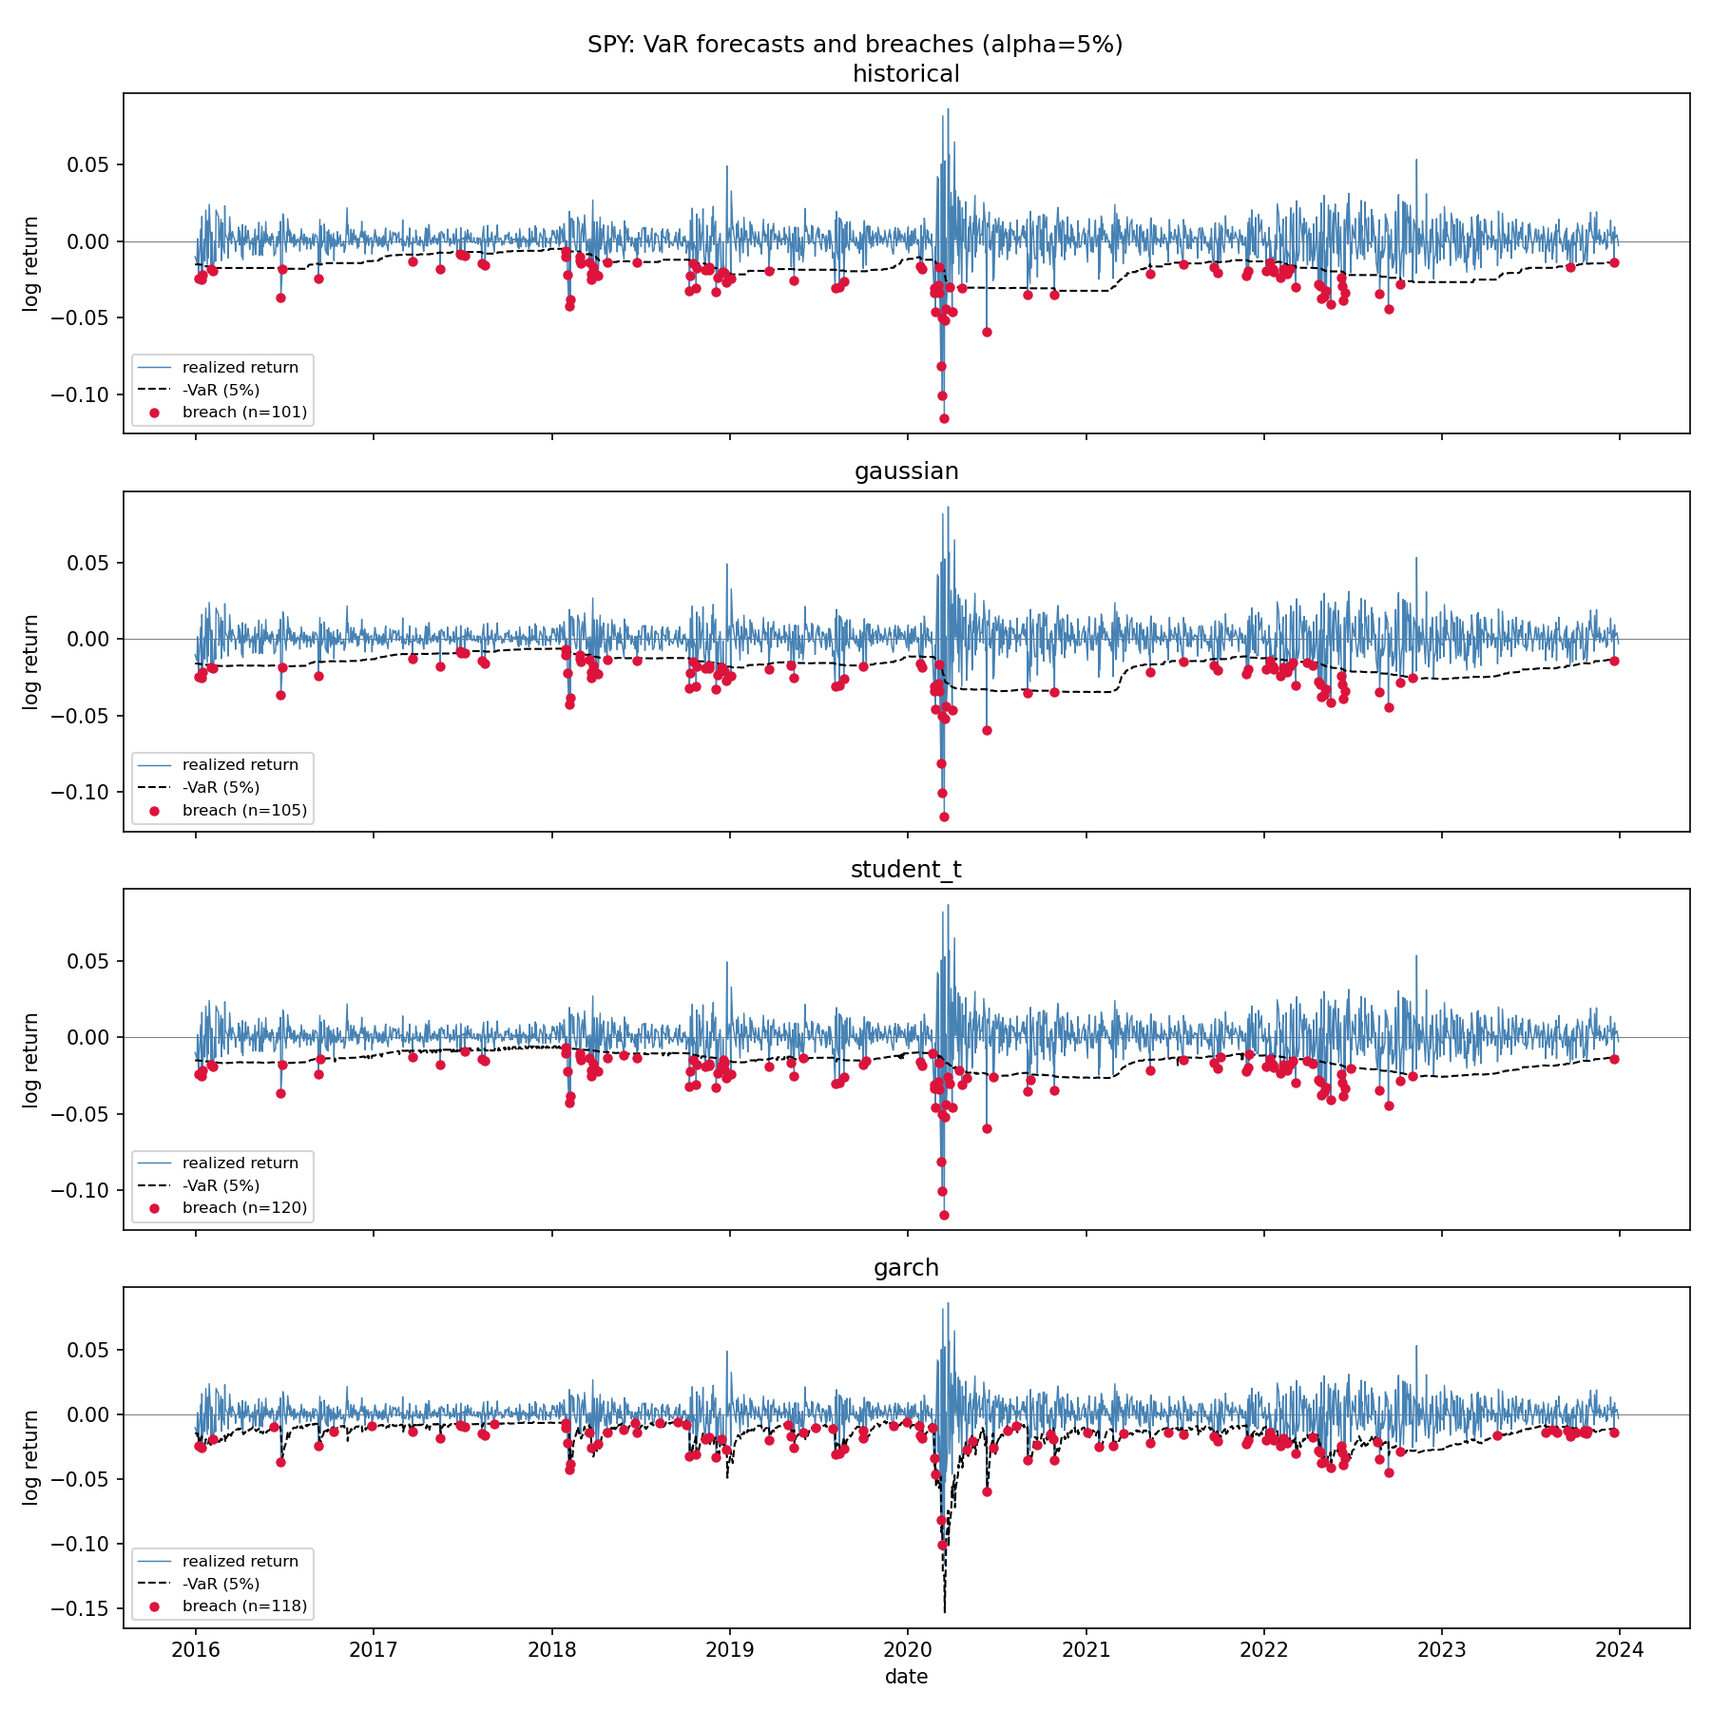
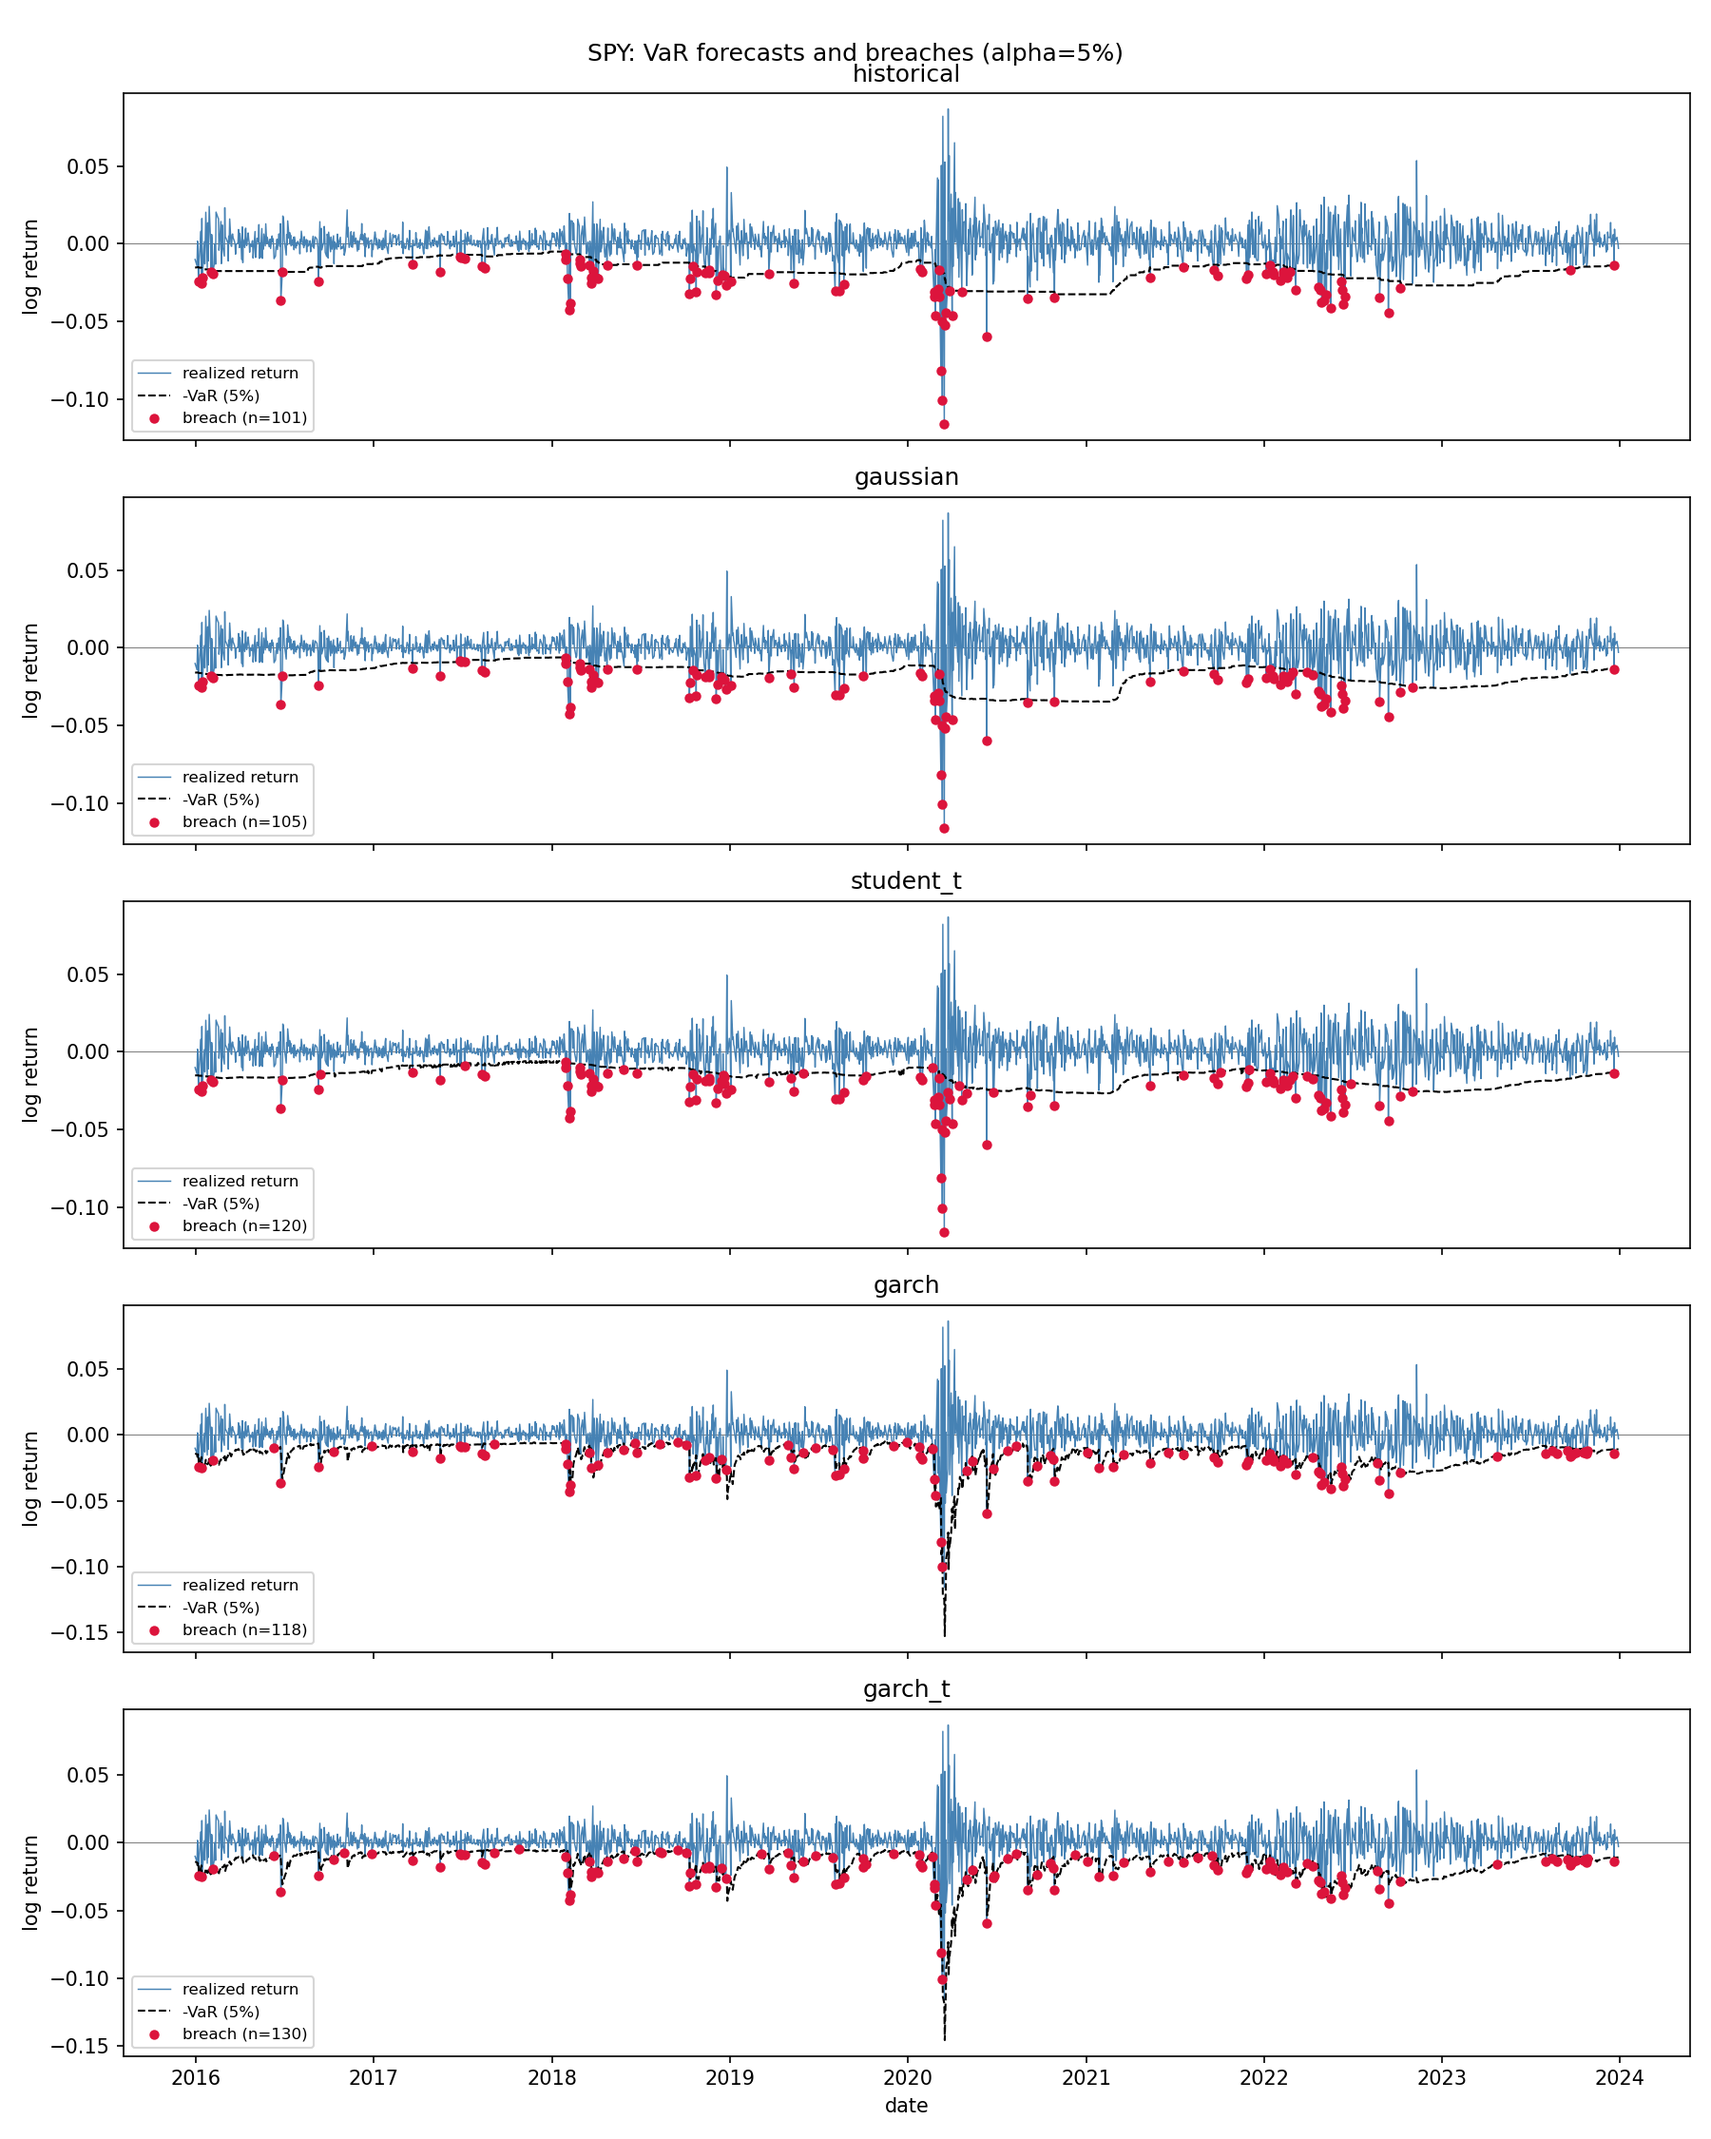
feat: add GARCH-Student-t model, fix ES overflow at large fitted nu
garch_t (GARCH(1,1) with Student-t innovations) fixes the independence
and severity failures of student_t and garch(normal) respectively, but
trades them for a coverage failure: its fitted conditional-volatility
path runs tighter than garch's on most days, which outweighs the
tail-widening effect of the fatter quantile and pushes the breach rate
above target.

Also fixes a latent bug this surfaced: arch's built-in Student-t
partial-moment (used for ES) overflows to NaN via raw gamma() once the
fitted degrees-of-freedom is large enough (~nu > 340) that the fit is
near-Gaussian. garch_var_es now reproduces the same closed form in
log-space so it stays finite for any fitted nu.

diff --git a/src/models.py b/src/models.py
@@ -35,6 +35,7 @@ from __future__ import annotations
 
 import numpy as np
 from scipy import stats
+from scipy.special import gammaln
 from arch import arch_model
 
 def historical_var_es(window: np.ndarray, alpha: float) -> tuple[float, float]:
@@ -150,17 +151,6 @@ def garch_var_es(
     volatility and combines it with a chosen innovation distribution to
     get VaR/ES.
 
-    Formula sketch:
-        1. Fit `arch.arch_model(window, vol="Garch", p=1, q=1, dist=dist)`
-        2. Forecast 1-step-ahead conditional mean (mu_t+1) and conditional
-           volatility (sigma_t+1) from the fitted model
-        3. Combine with the `dist` innovation quantile/tail-expectation
-           the same way `gaussian_var_es` / `student_t_var_es` do, but
-           using (mu_t+1, sigma_t+1) instead of the unconditional sample
-           mean/std:
-               VaR = -(mu_t+1 + sigma_t+1 * q_dist(alpha))
-               ES  = -(mu_t+1 - sigma_t+1 * es_factor_dist(alpha))
-
     Args:
         window: 1-D array of past log returns, most recent last.
         alpha: tail probability, e.g. 0.05.
@@ -210,13 +200,31 @@ def garch_var_es(
 
         var = -(mu_next + sigma_next * z)
 
-        partial_mean = float(
-            distribution.partial_moment(
-                1,
-                z,
-                shape_params,
-            )
+        nu = float(shape_params[0])
+
+        # `distribution.partial_moment` standardizes to unit variance
+        # (scale = sqrt((nu-2)/nu)), converts z to the raw t_nu domain,
+        # applies the Winkler et al. (1972) closed form via the raw
+        # (non-log) gamma function, then rescales back. That raw gamma
+        # ratio overflows to inf/nan once nu is large enough (roughly
+        # nu > 340) that the fitted Student-t is numerically
+        # indistinguishable from Gaussian — which happens in practice on
+        # low-kurtosis windows. Reproduce the same transform, but with
+        # the gamma ratio computed in log-space so it stays finite for
+        # any fitted nu.
+        scale = np.sqrt((nu - 2) / nu)
+        z_raw = z / scale
+
+        log_c = (
+            gammaln(0.5 * (nu + 1))
+            - gammaln(0.5 * nu)
+            - 0.5 * np.log(nu * np.pi)
         )
+        e = 0.5 * (nu + 1)
+        raw_moment = (0.5 * (np.exp(log_c) * nu) / (1 - e)) * (
+            (1 + (z_raw**2) / nu) ** (1 - e)
+        )
+        partial_mean = scale * raw_moment
 
         conditional_tail_mean = partial_mean / alpha
 

diff --git a/run.py b/run.py
@@ -46,6 +46,7 @@ MODELS: dict[str, ModelFn] = {
     "gaussian": gaussian_var_es,
     "student_t": student_t_var_es,
     "garch": garch_var_es,
+    "garch_t": lambda window, alpha: garch_var_es(window, alpha, dist="t"),
 }
 
 REPORTS_DIR = Path(__file__).resolve().parent / "reports"

diff --git a/README.md b/README.md
@@ -17,7 +17,7 @@ whether to believe it? Three things have to be true:
    be an accurate estimate of how bad the loss actually is. A model can get
    the rate and timing right and still badly underestimate tail severity.
 
-This project forecasts one-day VaR/ES with four models of increasing
+This project forecasts one-day VaR/ES with five models of increasing
 sophistication, then formally tests all three properties against realized
 returns.
 
@@ -26,7 +26,8 @@ returns.
 - **Data**: daily adjusted-close prices → 1-day log returns for a single
   ticker, walk-forward (rolling window, no lookahead).
 - **Models**: historical simulation, Gaussian (parametric normal), Student-t
-  (fat-tailed parametric), GARCH(1,1) (conditional volatility).
+  (fat-tailed parametric), GARCH(1,1) (conditional volatility) — tested with
+  both Gaussian and Student-t innovations (`garch`, `garch_t`).
 - **Backtests**:
   - Kupiec (1995) proportion-of-failures (POF) test — is the breach rate
     correct?
@@ -47,49 +48,57 @@ returns.
 | gaussian | 100.7 | 105 | 0.6586 | 0.0000 | 0.0000 | FAIL independence, severity |
 | student_t | 100.7 | 120 | 0.0545 | 0.0000 | 0.8027 | FAIL independence |
 | garch | 100.7 | 118 | 0.0838 | 0.4197 | 0.0000 | FAIL severity |
+| garch_t | 100.7 | 130 | 0.0040 | 0.2083 | 0.0869 | FAIL coverage |
 
 ![breaches](reports/var_breaches.png)
 
 ## Key finding
 
-No model passes all three tests, and the two closest results fail in
-opposite ways. Historical, Gaussian, and GARCH all get the breach *rate*
-roughly right, but historical and Gaussian breaches cluster tightly around
-the March 2020 crash (Christoffersen p ≈ 0) — a constant-width band fit to
-unconditional history can't react to a sudden change in volatility regime.
+No model passes all three tests. Historical, Gaussian, and GARCH all get the
+breach *rate* roughly right, but historical and Gaussian breaches cluster
+tightly around the March 2020 crash (Christoffersen p ≈ 0) — a
+constant-width band fit to unconditional history can't react to a sudden
+change in volatility regime.
 
 GARCH(1,1) is built to react to exactly that: by forecasting conditional
 volatility, its VaR band widens during the crash and narrows afterward, so
-its breaches are independent (p = 0.42) — the only model to clear that bar.
-But GARCH here still assumes *Gaussian* shocks once volatility is accounted
-for, and that assumption is wrong: even after conditioning on volatility,
-realized breach-day losses are worse than a Gaussian tail predicts, so it
-fails the severity test decisively (p ≈ 0). Student-t is the mirror image —
-its fat-tailed distribution correctly sizes breach severity (p = 0.80, the
-only pass), but because it's still fit to the unconditional window it
-doesn't react to the volatility regime shift any better than Gaussian does,
-and also fails independence.
+its breaches are independent (p = 0.42). But GARCH here still assumes
+*Gaussian* shocks once volatility is accounted for, and that assumption is
+wrong: even after conditioning on volatility, realized breach-day losses are
+worse than a Gaussian tail predicts, so it fails the severity test
+decisively (p ≈ 0). Student-t is the mirror image — its fat-tailed
+distribution correctly sizes breach severity (p = 0.80), but because it's
+still fit to the unconditional window it doesn't react to the volatility
+regime shift any better than Gaussian does, and also fails independence.
 
-In other words: getting the *timing* of risk right (GARCH) and getting the
-*size* of tail losses right (Student-t) came from two different mechanisms
-here, and neither model has both. The natural next experiment — supported
-by the existing code via `garch_var_es(window, alpha, dist="t")` — is GARCH
-with Student-t innovations instead of Gaussian ones, which should combine
-conditional volatility with fat tails and might be the first model to pass
-all three tests.
+The natural next experiment is GARCH with Student-t innovations (`garch_t`)
+— combining conditional volatility with fat tails. It does fix both prior
+failures: independence holds (p = 0.21) and severity holds (p = 0.087). But
+it trades them for a new one. It breaches 130 times against 100.7 expected
+(6.46% vs. the 5% target), and Kupiec rejects the breach rate decisively
+(p = 0.004) — the only model to fail on *coverage*.
+
+The cause isn't the fatter tail itself — a Student-t quantile at the same
+alpha is more extreme than the Gaussian one, which should widen VaR, not
+tighten it. It's that GARCH's parameters are refit separately under each
+likelihood: `garch_t`'s conditional-volatility path isn't "`garch`'s sigma
+plus a fatter tail bolted on," it's a different fitted volatility path from
+a different MLE, one that on ~72% of days comes out tighter (mean VaR 1.49%
+vs. `garch`'s 1.55%). That tightening in the volatility fit outweighs the
+tail-widening effect of the fatter quantile, and the breach rate rises
+instead of falling.
+
+So combining the two mechanisms didn't produce the model that passes all
+three checks — it produced a third, different failure mode. Of the three
+more sophisticated models, each isolates exactly one of the three
+properties as its failure: Student-t fails independence, GARCH(normal)
+fails severity, GARCH-t fails coverage. Getting all three right
+simultaneously, on this ticker/window, didn't happen by combining the
+fixes for the other two.
 
 ## Limitations
 
 - Single-asset, single-ticker analysis — no portfolio effects.
-- The Christoffersen independence test and the McNeil-Frey ES test are both
-  measurably conservative at these sample sizes: simulating well-calibrated
-  synthetic sequences at n≈200-2000 gave false-positive rates of ~1.8% and
-  ~2.5% respectively against a nominal 5% significance level. A single
-  "PASS" at this sample size is suggestive, not definitive.
-- GARCH is only tested with Gaussian innovations here (`dist="normal"`,
-  the default); the code supports Student-t innovations
-  (`dist="t"`) but that combination isn't in the current results — see Key
-  finding above.
 - No regime-switching or structural-break handling in the GARCH model.
 - Model parameters are refit on every rolling window — no parameter
   stability analysis.
@@ -105,9 +114,13 @@ pytest
 
 ## Possible extensions
 
-- **GARCH with Student-t innovations**: add `"garch_t"` to `run.py`'s
-  `MODELS` dict as `lambda w, a: garch_var_es(w, a, dist="t")` and re-run —
-  the natural follow-up to the severity result above.
+- **Isolate the GARCH-t volatility gap**: `garch_t`'s conditional-volatility
+  path differs from `garch`'s because the two are fit under different
+  likelihoods, not just different tail quantiles (see Key finding). Refit
+  GARCH once and swap only the innovation distribution when computing
+  VaR/ES, to separate "fatter tail, same volatility path" from "different
+  volatility path entirely," and see which effect is actually responsible
+  for the coverage failure.
 - **Extreme Value Theory**: fit a Generalized Pareto Distribution to
   exceedances over a high threshold (Peaks-Over-Threshold) and derive
   VaR/ES from the tail fit instead of the full return distribution — the
@@ -116,8 +129,9 @@ pytest
   or lower) where sample quantiles get noisy.
 - **Multiple tickers / asset classes**: re-run across a few names with
   different tail behavior (a single stock, something less liquid, a
-  non-equity) to check whether the GARCH-wins-independence /
-  Student-t-wins-severity split holds generally or is SPY-specific.
+  non-equity) to check whether the three-way split — Student-t fails
+  independence, GARCH(normal) fails severity, GARCH-t fails coverage —
+  holds generally or is SPY-specific.
 
 ## References
 
